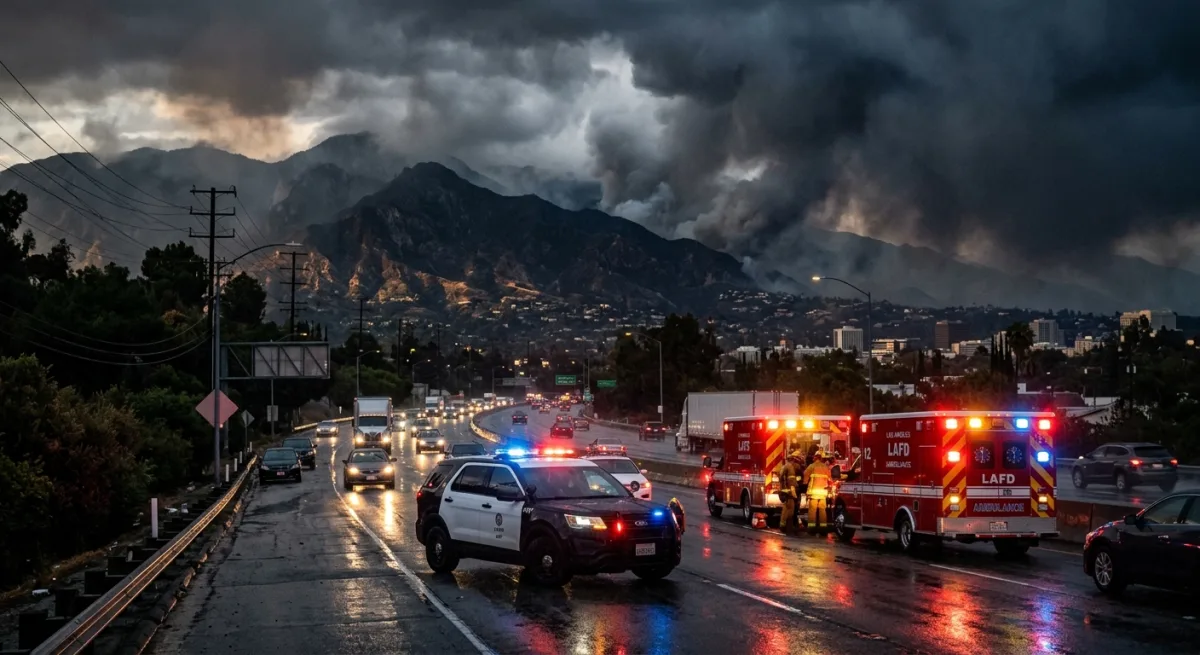
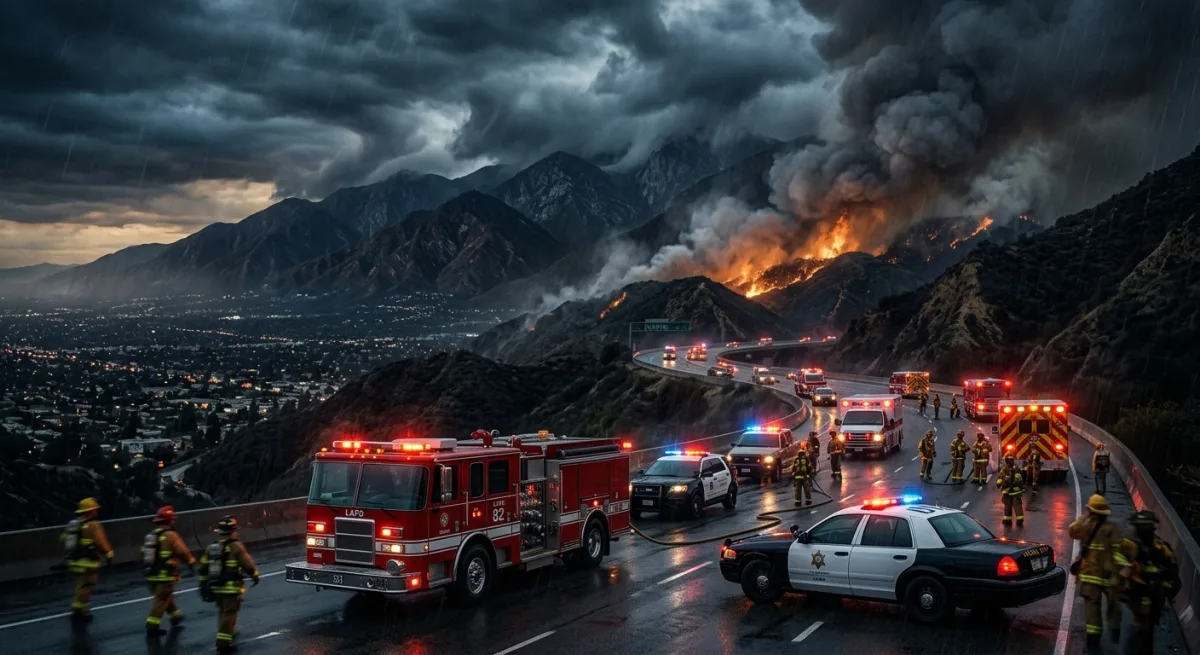
local: 2026-08-08 — LA County Emergency Dispatch

diff --git a/content/local/2026-08-08-la-county-emergency-dispatch.md b/content/local/2026-08-08-la-county-emergency-dispatch.md
@@ -1,6 +1,6 @@
 ---
 title: "🚨 LA County Emergency Dispatch"
-date: 2026-08-08T11:14:34-07:00
+date: 2026-08-08T16:17:38-07:00
 draft: false
 categories: ["local"]
 tags: ["local", "breaking", "emergency", "public-safety", "la-county"]
@@ -11,16 +11,20 @@ cover:
   relative: false
 ---
 
-*Published Saturday, August 08, 2026 at 11:14 AM PT*
+*Published Saturday, August 08, 2026 at 04:17 PM PT*
 
-*Burbank · Saturday, August 8, 2026 · 11:14 AM · 91°F, 36% humidity, wind 0 mph NNW (gusts 2), 29.40 inHg, UV 0, PM2.5 4*
+*Burbank · Saturday, August 8, 2026 · 4:17 PM · 100°F, 26% humidity, wind 0 mph W (gusts 3), 29.29 inHg, UV 0, PM2.5 7*
 
-Active brush fire in Angeles National Forest being battled by firefighters, ignited by a car fire. Details remain thin at this hour, but here's what we know: firefighters are actively working to contain the blaze. Exact acreage, evacuation zones, and road closures haven't been confirmed yet in preliminary reports. If you're in foothill areas near the forest (San Gabriel Valley side, Burbank/Glendale foothills), keep listening to local emergency alerts and LA County Fire for real-time updates.
+Evacuation orders are in effect for areas in the Burbank hills. A fire is actively burning in the foothills above Burbank with residences threatened. If you are in an evacuation zone, leave immediately — do not wait for further notice.
 
-The car fire trigger is the part that lands different — this wasn't lightning or a downed power line. Someone's vehicle caught fire and torched the brush adjacent. Which means we're back to the same tired lesson: don't park in high-fire-hazard areas, especially not in summer, and definitely not when your vehicle is already cooking. Nothing says "I've made terrible choices" like feeding dry chaparral a free car-fire appetizer.
+Check the LA County Emergency Management Department's emergency alert system and local Burbank Fire Department notifications for your specific evacuation zone and road closures. The Burbank Police Department and Verdugo Fire are managing the response.
 
-Firefighters are already en route and engaged, which is the good news. The Angeles National Forest doesn't fuck around — it's steep, remote, and windy as hell, which makes access brutal and spread fast. If containment units are there this quickly, that's at least working in our favor, but August in the forest is peak fire season, and anything that establishes a foothold grows mean.
+Residents in evacuation warning zones should prepare to leave on short notice and have an evacuation kit ready (documents, medications, irreplaceable items, pets). Monitor air quality if you're outside the evacuation zone — wind-driven smoke from the foothills will impact the wider Burbank area and adjacent communities as conditions shift.
 
-Stay tuned to **LA County Fire Emergency Info** (lahcm.org/emergency-info) and local Nixle alerts for mandatory evacuation orders, road closures, and shelter info as the situation develops. Air quality may degrade downwind — that's Burbank, Glendale, Pasadena, the San Gabriel Valley. The 134, 210, and local canyons get traffic impacts fast when fire ops spin up.
+Specific neighborhood boundaries, shelter locations, and live road-closure maps are posted through LA County's emergency alert system (text LACOUNTY to 67283 to opt into emergency alerts) and the Burbank Fire Department's active incident page. Social media accounts for BPD and Verdugo Fire are updating in real-time.
 
-Will update as details confirm. For now: phone-in alerts, not Twitter. Emergency services move faster than social media.
+Further details including fire size, containment status, and evacuation zone specifics are being confirmed through official emergency channels. This post will be updated as information is released.
+
+---
+
+*For live updates: Burbank Police Department (burbankpd.org), Verdugo Fire (verdugofire.org), LA County Emergency Management (ready.lacounty.gov), and local news coverage. If you're in an evacuation area and need assistance, call 911.*
